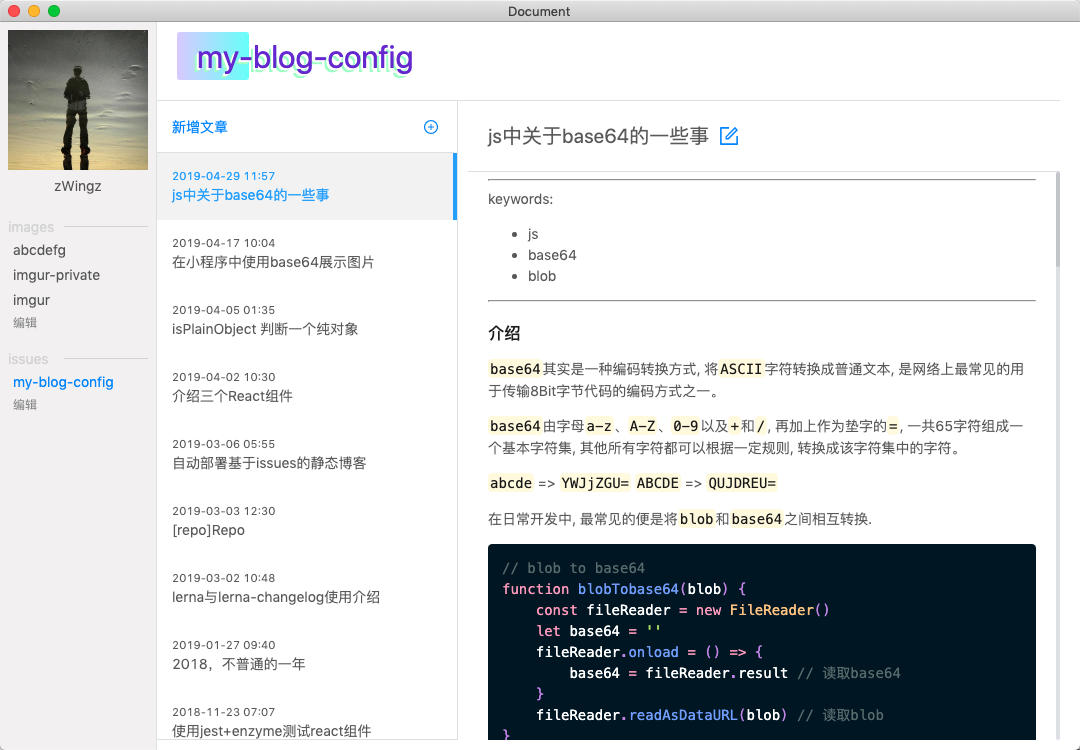
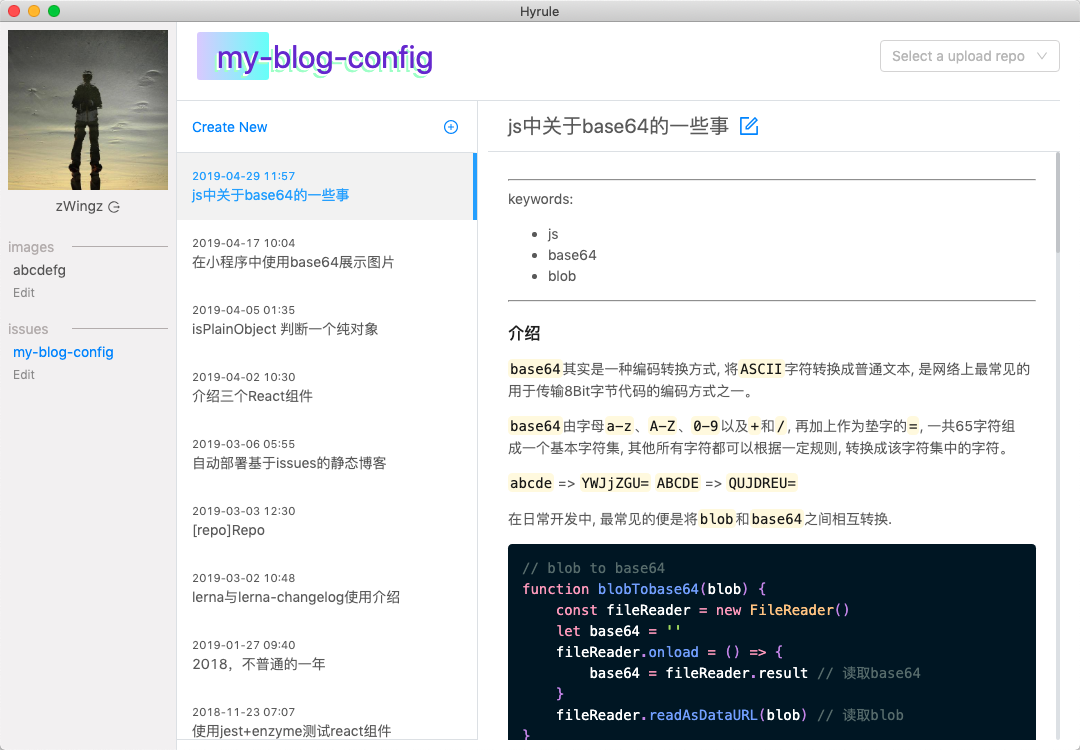
feat: 🎸 添加logo/修改Readme/修改样式

diff --git a/src/renderer/pages/Issues/index.tsx b/src/renderer/pages/Issues/index.tsx
@@ -15,7 +15,7 @@ import {
   setCacheDefUploadRepo,
   store
 } from 'src/renderer/utils/store'
-import { Spin, Select, Icon } from 'antd'
+import { Spin, Select, Icon, Tooltip } from 'antd'
 import { ImagesPageBase } from '../Images'
 import { empty } from 'src/renderer/utils/helper'
 import { ImageKit } from 'src/renderer/utils/imageKit'
@@ -51,7 +51,6 @@ class IssuesPageBase extends PureComponent<Prop, State> {
     }
     const repo = imagesRepo.filter(each => each.name === uploadRepo)[0]
     cache = repo
-    console.log(repo)
     return repo
   }
   constructor(p: Prop) {
@@ -136,18 +135,24 @@ class IssuesPageBase extends PureComponent<Prop, State> {
         <div className='page-container'>
           <div className='flex'>
             <div className='page-title mr-auto'>{this.props.repo.name}</div>
-            {uploadRepo && (
-              <div className='flex-center'>
-                <Icon
-                  type='menu-fold'
-                  className='mr10'
-                  onClick={this.onShowImageChange}
-                  style={{ fontSize: '22px' }}
-                />
+            <div className='flex-center'>
+              {uploadRepo && (
+                <Tooltip title='open images dashboard' mouseEnterDelay={0.3}>
+                  <Icon
+                    type='menu-fold'
+                    className='mr10'
+                    onClick={this.onShowImageChange}
+                    style={{ fontSize: '22px' }}
+                  />
+                </Tooltip>
+              )}
+              <Tooltip
+                title='Select a repo to upload image'
+                mouseEnterDelay={0.5}>
                 <Select
-                  placeholder='Select'
+                  placeholder='Select a upload repo'
                   value={uploadRepo}
-                  style={{ minWidth: '120px' }}
+                  style={{ minWidth: '180px' }}
                   onChange={this.onRepoSelectChange}>
                   {imagesRepo.map(each => (
                     <Option key={each.name} value={each.name}>
@@ -155,8 +160,8 @@ class IssuesPageBase extends PureComponent<Prop, State> {
                     </Option>
                   ))}
                 </Select>
-              </div>
-            )}
+              </Tooltip>
+            </div>
           </div>
           {loading && (
             <Spin delay={250} className='spin-loading absolute-full' />
@@ -175,10 +180,16 @@ class IssuesPageBase extends PureComponent<Prop, State> {
           <div
             className={cls('issues-images-container absolute-full', {
               hidden: !condition
-            })}
-            onClick={this.onShowImageChange}>
+            })}>
+            <div
+              className='issues-images-mask absolute-full'
+              onClick={this.onShowImageChange}
+            />
             <ImagesPageBase
-              className={cls('issues-images')}
+              onClose={this.onShowImageChange}
+              className={cls('issues-images', {
+                hidden: !condition
+              })}
               repo={this.uploadRepoInfo}
             />
           </div>

diff --git a/src/renderer/pages/layout/Sidebar/index.tsx b/src/renderer/pages/layout/Sidebar/index.tsx
@@ -8,7 +8,7 @@ import { RepoSelectModal } from './RepoSelectModal'
 import { getCacheRepos, setCacheRepos, store } from '../../../utils/store'
 import { NavLink } from 'react-router-dom'
 import { openModal } from 'src/renderer/utils/helper'
-import { shell } from 'electron';
+import { shell } from 'electron'
 
 const TYPE_IMG = 'images'
 const TYPE_ISSUES = 'issues'
@@ -68,11 +68,14 @@ export class Sidebar extends PureComponent<{}, State, UserCtx> {
         <div className='user-info'>
           <img src={avatar} className='user-avatar' />
           <span className='user-name'>
-            <span onClick={this.openExternal}>
-              {owner}
-            </span>
+            <span onClick={this.openExternal}>{owner}</span>
             <Tooltip title='Logout' mouseEnterDelay={0.25}>
-              <Icon onClick={logout} type='logout' style={{fontSize: '12px'}} className='ml5' />
+              <Icon
+                onClick={logout}
+                type='logout'
+                style={{ fontSize: '12px' }}
+                className='ml5'
+              />
             </Tooltip>
           </span>
         </div>
@@ -81,18 +84,22 @@ export class Sidebar extends PureComponent<{}, State, UserCtx> {
             <div className={`repo-group`} key={each}>
               <div className='repo-type'>{each}</div>
               <ul className='repo-list'>
-                {this.state[each].map((repo: GitRepo) => (
-                  <li className='repo-list-item' key={repo.id}>
-                    <NavLink
-                      to={{
-                        pathname: `/${each}/${repo.name}`,
-                        search: repo.private ? 'private' : ''
-                      }}
-                      activeClassName='nav-active'>
-                      {repo.name}
-                    </NavLink>
-                  </li>
-                ))}
+                {this.state[each].length ? (
+                  this.state[each].map((repo: GitRepo) => (
+                    <li className='repo-list-item' key={repo.id}>
+                      <NavLink
+                        to={{
+                          pathname: `/${each}/${repo.name}`,
+                          search: repo.private ? 'private' : ''
+                        }}
+                        activeClassName='nav-active'>
+                        {repo.name}
+                      </NavLink>
+                    </li>
+                  ))
+                ) : (
+                  <li className='repo-list-item'>Please add a repo</li>
+                )}
                 <li
                   className='repo-add'
                   onClick={() => this.openSelectRepo(each)}>

diff --git a/src/renderer/pages/Images/index.tsx b/src/renderer/pages/Images/index.tsx
@@ -6,7 +6,8 @@ import {
   message as Message,
   Spin,
   Empty,
-  Switch
+  Switch,
+  Tooltip
 } from 'antd'
 import cls from 'classnames'
 import join from 'url-join'
@@ -28,6 +29,7 @@ import { GitRepo } from 'src/renderer/http/types'
 type Prop = {
   repo: GitRepo
   className?: string
+  onClose?: () => void
 }
 
 type State = {
@@ -123,7 +125,7 @@ export class ImagesPageBase extends PureComponent<Prop, State> {
         abortToken = abort
       })
       const { images, dir } = dataJson
-      if(!this._isMounted) return
+      if (!this._isMounted) return
       this.setState({
         // images: [],
         images: images.map(each => ({
@@ -327,14 +329,23 @@ export class ImagesPageBase extends PureComponent<Prop, State> {
       dragover,
       checkedToggle
     } = this.state
-    const { repo, className } = this.props
-    console.log(repo);
+    const { repo, className, onClose } = this.props
     const keys = Object.keys(dir)
     const empty = !images.length
     return (
       <div className={cls('page-container album-container', className)}>
         <div className='album-title flex align-center'>
           <div className='page-title mr-auto'>{repo.name}</div>
+          {onClose && (
+            <Tooltip title='close dashboard' mouseEnterDelay={0.3}>
+              <Icon
+                onClick={onClose}
+                className='mr10'
+                style={{ fontSize: '22px' }}
+                type='menu-unfold'
+              />
+            </Tooltip>
+          )}
           <Button
             icon='folder-add'
             className='mr10'

diff --git a/src/renderer/pages/Issues/style.less b/src/renderer/pages/Issues/style.less
@@ -150,21 +150,32 @@
   // top: 0px;
   // bottom: 0px;
   // right: 0px;
-  transform: translate3d(0, 0, 0);
-  transition: transform .6s ease-in-out;
+  transition: opacity 0.6s ease-in-out;
+  opacity: 1;
   &.hidden {
-    transform: translate3d(100%, 0, 0);
+    // transition: none;
+    opacity: 0;
+    pointer-events: none;
   }
+}
+.issues-images-mask {
+  background: rgba(0, 0, 0, 0.1);
 }
 .issues-images {
   position: absolute !important;
   background: #fff;
-  top: 10px;
-  bottom: 10px;
+  top: 0px;
+  bottom: 0px;
   left: 180px;
   right: 0px;
   box-shadow: -5px 0px 5px 0px @border-color;
-  padding-right: 20px;
+  // padding-right: 20px;
+  transform: translate3d(0, 0, 0);
+  transition: transform 0.6s ease-in-out;
+  padding: 10px 20px 10px 40px !important;
+  &.hidden {
+    transform: translate3d(100%, 0, 0);
+  }
   .album-delete {
     left: 0px;
     right: 0px;

diff --git a/build/prod.conf.js b/build/prod.conf.js
@@ -11,6 +11,7 @@ const OptimizeCSSAssetsPlugin = require('optimize-css-assets-webpack-plugin')
 const TerserPlugin = require('terser-webpack-plugin');
 const HtmlWebpackPlugin = require('html-webpack-plugin')
 const path = require('path')
+
 const webpackConfig = merge(baseWebpackConfig, {
   mode: 'production',
   module: {
@@ -140,7 +141,7 @@ const webpackConfig = merge(baseWebpackConfig, {
     //     ignore: ['.*']
     //   }
     // ]),
-    new webpack.IgnorePlugin(/^\.\/locale$/, /moment$/)
+    new webpack.IgnorePlugin(/^\.\/locale$/, /moment$/),
   ]
 })
 module.exports = webpackConfig

diff --git a/src/renderer/App.tsx b/src/renderer/App.tsx
@@ -39,6 +39,9 @@ class App extends PureComponent<{}, State> {
   }
   componentDidMount() {
     ipcRenderer.on('set-access-token', async (e, t) => {
+      this.setState({
+        isLogin: true
+      })
       this.valid(t)
     })
     if (token) {
@@ -62,11 +65,11 @@ class App extends PureComponent<{}, State> {
     ipcRenderer.send('open-auth-window')
   }
   logout = () => {
-    store.clear()
     this.setState({
       loaded: false,
       isLogin: false
     })
+    store.clear()
   }
   render() {
     const { avatar, owner, loaded, isLogin } = this.state

diff --git a/src/renderer/pages/layout/Dashboard/index.tsx b/src/renderer/pages/layout/Dashboard/index.tsx
@@ -1,9 +1,11 @@
 import React from 'react'
+import Hyrule from '../../../assets/Hyrule.png'
 import './style.less'
 export function Dashboard(p) {
   return (
     <div className='flex-grow dashboard'>
-      <div className='page-title'>Please select a repo</div>
+      <img className='logo' src={Hyrule} alt='' />
+      {/* <div className='page-title'>Please select a repo</div> */}
     </div>
   )
 }

diff --git a/src/renderer/component/RepoWrapper/index.tsx b/src/renderer/component/RepoWrapper/index.tsx
@@ -48,6 +48,11 @@ export function RepoWrapper<P = any>(
         ImageKit.setRepo(repo)
       }
     }
-    return <Page {...p} repo={repoInfo} />
+    useEffect(() => {
+      if(!repoInfo) {
+        p.history.replace('/')
+      }
+    }, [])
+    return repoInfo ? <Page {...p} repo={repoInfo} /> : null
   }
 }

diff --git a/electronrc.js b/electronrc.js
@@ -25,10 +25,10 @@ module.exports = {
     ]
   },
   mac: {
-    icon: 'build/icons/icon.icns'
+    icon: 'build/icons/icon.png'
   },
   win: {
-    icon: 'build/icons/icon.ico',
+    icon: 'build/icons/icon.png',
     target: 'nsis',
     legalTrademarks: 'Eyas Personal'
   },

diff --git a/src/main/menu.ts b/src/main/menu.ts
@@ -91,7 +91,7 @@ export function createMenu() {
       role: 'help',
       submenu: [
         {
-          label: 'Learn More',
+          label: 'about',
           click() {
             shell.openExternal('https://github.com/zWingz/Hyrule')
           }

diff --git a/src/renderer/utils/store.ts b/src/renderer/utils/store.ts
@@ -13,7 +13,7 @@ export function setCacheRepos(
 }
 
 export function getCacheDefUploadRepo() {
-  return store.get('defUploadRep') as string || ''
+  return store.get('defUploadRep') as string || undefined
 }
 
 export function setCacheDefUploadRepo(repo) {

diff --git a/src/renderer/pages/layout/Dashboard/style.less b/src/renderer/pages/layout/Dashboard/style.less
@@ -1,7 +1,11 @@
 .dashboard {
+  .logo {
+    margin-top: 20px;
+    margin-left: 40px;
+  }
   .page-title {
-    margin: 40px;
-    font-size: 48px;
+    margin: 40px 80px;
+    font-size: 44px;
   }
   .page-title::before {
     display: none;
